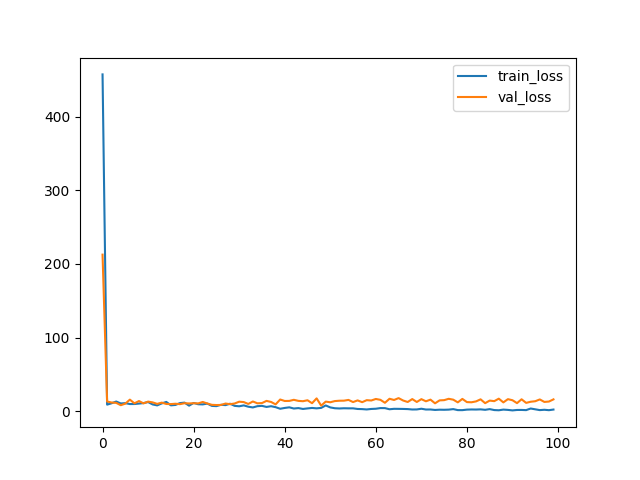
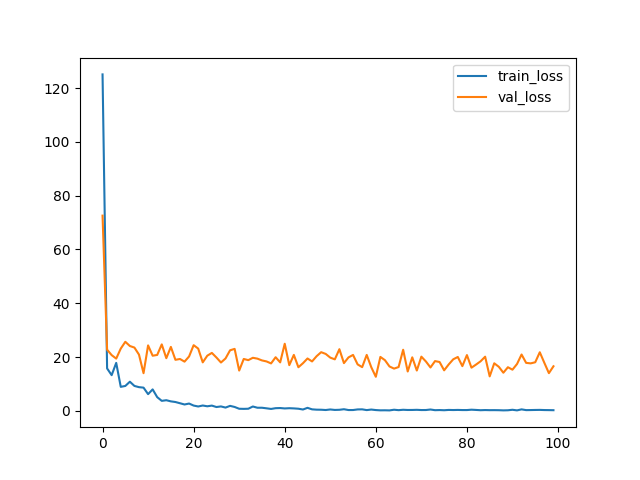
Overfitting well

diff --git a/main.py b/main.py
@@ -30,8 +30,8 @@ class YoloLoss(nn.Module):
     def forward(self, y_pred, y_true):
         SS = S * S
         scale_object_conf = 1
-        scale_noobject_conf = 2
-        scale_coordinate = 1
+        scale_noobject_conf = 0.5
+        scale_coordinate = 5
         batch_size = y_pred.size(0)
 
         # ground truth
@@ -419,7 +419,7 @@ def test():
 
     x = []
     y = []
-    image_paths = os.listdir("data/Images")[1:2]
+    image_paths = os.listdir("data/Images")[2:3]
     print(image_paths)
     num_images = len(image_paths)
     print(f"Loading {num_images} images...")
